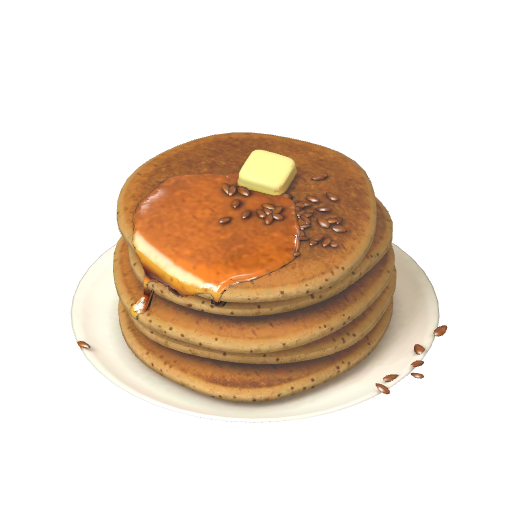
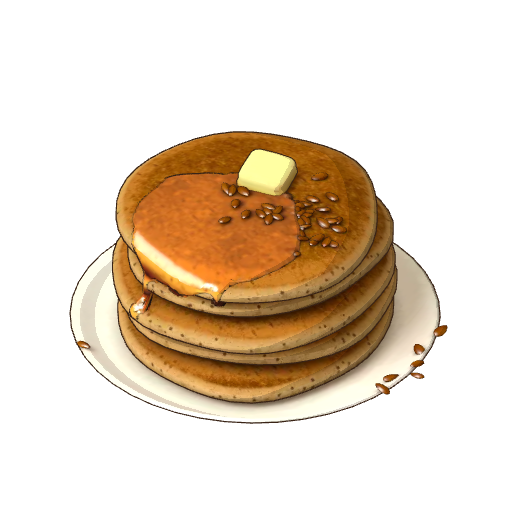
feat(render): 팬케이크 계열 툰 스타일 — 가는 외곽선 · 3단 그늘
- src/render/toonMaterial.ts: isToonBread · applyToon (GLB 색 맵 그대로 + MeshToonMaterial 3단 + 뷰 공간 외곽선 1.2px@512)
- 쇼케이스: 툰 빵이면 툰 재질 + TOON_SHOWCASE_LIGHT(직광 옆 뒤 · 반구 끔), 컨텍스트 복구에도 유지
- 썸네일 하네스 기본이 같은 판정 · 팬케이크 15장 다시 구움
- glb-shot: --glb · --query 검수 인자

Claude-Session: https://claude.ai/code/session_01Qp9Kq6TzVtKidUT7b2Ho5t

diff --git a/src/render/toonMaterial.ts b/src/render/toonMaterial.ts
@@ -1,0 +1,124 @@
+// 툰 스타일 빵 — 쇼케이스(breadShowcase.ts)와 썸네일 하네스(scripts/thumbsHarness.ts)가 공유.
+// 2026-11-17 스타일 시험에서 채택: 색 맵은 GLB 그대로 · 본체 = MeshToonMaterial 3단 · 가는 외곽선(썸네일 512px에서 1.2px).
+// 외곽선 = 정점을 붙인 사본을 뒤집어(BackSide) 뷰 공간에서 법선 쪽으로 민다. 두 카메라가 다 직교라 뷰 공간 두께 = 화면 두께.
+import * as THREE from 'three';
+import { mergeVertices } from 'three/examples/jsm/utils/BufferGeometryUtils.js';
+
+/** 툰으로 그리는 빵 — 팬케이크 계열(베이스 + 변형)만 */
+export function isToonBread(idOrUrl: string): boolean {
+  return /(^|\/)pancake(--[a-z0-9-]+)?(\.[0-9a-f]+)?(\.glb)?(\?|$)/.test(idOrUrl);
+}
+
+/** 세 단 그늘(어두운 단 → 밝은 단) */
+const RAMP = [0.35, 0.65, 1];
+/** 외곽선 두께(씬 단위, 빵 최장 변 1.6 기준) — 썸네일(직교 높이 2.2 · 512px)에서 1.2px */
+export const TOON_LINE = (1.2 * 2.2) / 512;
+const LINE_COLOR = 0x3a2416;
+/** 잔 덩이 외곽선 가늘게: 덩이 대각선 ÷ 전체 최장 변이 문턱 아래면 비례로 줄임(바닥 배율까지) */
+const SMALL: [number, number] = [0.3, 0.2];
+
+let gradientMap: THREE.DataTexture | null = null;
+function ramp(): THREE.DataTexture {
+  if (gradientMap) return gradientMap;
+  const t = new THREE.DataTexture(new Uint8Array(RAMP.map((v) => Math.round(v * 255))), RAMP.length, 1, THREE.RedFormat);
+  t.minFilter = t.magFilter = THREE.NearestFilter;
+  t.generateMipmaps = false;
+  t.needsUpdate = true;
+  return (gradientMap = t); // 모든 빵이 같이 쓴다 — 버리지 않는다
+}
+
+/** 위치만 복사 → 같은 자리 정점 병합 → 법선 재계산 (날 선 모서리에서 껍데기가 갈라지지 않게) */
+function hullGeometry(src: THREE.BufferGeometry, toRoot: THREE.Matrix4, longest: number): THREE.BufferGeometry {
+  const g = new THREE.BufferGeometry();
+  const p = src.getAttribute('position'); // 인터리브·양자화일 수 있다 — Float32로 풀어 복사
+  const pos = new Float32Array(p.count * 3);
+  const v = new THREE.Vector3();
+  for (let i = 0; i < p.count; i++) v.fromBufferAttribute(p, i).toArray(pos, i * 3);
+  g.setAttribute('position', new THREE.BufferAttribute(pos, 3));
+  if (src.index) g.setIndex(src.index);
+  const merged = mergeVertices(g);
+  g.dispose();
+  merged.computeVertexNormals();
+  merged.setAttribute('aLine', new THREE.BufferAttribute(lineScale(merged, toRoot, longest), 1));
+  return merged;
+}
+
+/** 연결 덩이(union-find)마다 두께 배율 — 잔 토핑이 외곽선에 파묻혀 검은 덩이로 뭉치는 걸 막는다 */
+function lineScale(g: THREE.BufferGeometry, toRoot: THREE.Matrix4, longest: number): Float32Array {
+  const [thr, floor] = SMALL;
+  const pos = g.getAttribute('position');
+  const n = pos.count;
+  const idx = g.index!.array;
+  const parent = new Int32Array(n).map((_, i) => i);
+  const find = (a: number): number => {
+    while (parent[a] !== a) a = parent[a] = parent[parent[a]];
+    return a;
+  };
+  for (let i = 0; i < idx.length; i += 3) {
+    parent[find(idx[i])] = find(idx[i + 1]);
+    parent[find(idx[i + 1])] = find(idx[i + 2]);
+  }
+  const boxes = new Map<number, THREE.Box3>();
+  const v = new THREE.Vector3();
+  for (let i = 0; i < n; i++) {
+    const r = find(i);
+    let b = boxes.get(r);
+    if (!b) boxes.set(r, (b = new THREE.Box3()));
+    b.expandByPoint(v.fromBufferAttribute(pos, i).applyMatrix4(toRoot));
+  }
+  const scale = new Map<number, number>();
+  const sz = new THREE.Vector3();
+  for (const [r, b] of boxes) scale.set(r, THREE.MathUtils.clamp(b.getSize(sz).length() / longest / thr, floor, 1));
+  const out = new Float32Array(n);
+  for (let i = 0; i < n; i++) out[i] = scale.get(find(i))!;
+  return out;
+}
+
+/**
+ * 로드 직후 1회, 정규화(scale) 전에 — 재질을 툰으로 바꾸고 메시마다 외곽선 자식을 붙인다.
+ * lineWorld는 정규화 뒤 씬 단위 두께. 정규화 배율(root.scale)은 셰이더가 뷰 공간에서 밀어 상관없다.
+ */
+export function applyToon(root: THREE.Object3D, lineWorld = TOON_LINE): void {
+  root.updateMatrixWorld(true);
+  const rootInv = root.matrixWorld.clone().invert();
+  const longest = Math.max(...new THREE.Box3().setFromObject(root).getSize(new THREE.Vector3()).toArray(), 1e-6);
+  const uniforms = { uLine: { value: lineWorld } };
+  // traverse 안에서 자식을 붙이면 그 자식도 순회에 걸린다 — 먼저 모은다
+  const meshes: THREE.Mesh[] = [];
+  root.traverse((o) => {
+    if (o instanceof THREE.Mesh) meshes.push(o);
+  });
+  for (const mesh of meshes) {
+    const orig = (Array.isArray(mesh.material) ? mesh.material[0] : mesh.material) as THREE.MeshStandardMaterial;
+    mesh.material = new THREE.MeshToonMaterial({
+      map: orig.map ?? null,
+      color: orig.color ?? new THREE.Color(0xffffff),
+      gradientMap: ramp(),
+      side: orig.side,
+      vertexColors: orig.vertexColors,
+    });
+    orig.normalMap?.dispose();
+    orig.roughnessMap?.dispose();
+    orig.dispose(); // map은 툰 재질이 이어 쓴다
+
+    const mat = new THREE.MeshBasicMaterial({ color: LINE_COLOR, side: THREE.BackSide });
+    mat.onBeforeCompile = (shader) => {
+      Object.assign(shader.uniforms, uniforms);
+      shader.vertexShader = shader.vertexShader
+        .replace('#include <common>', '#include <common>\nuniform float uLine;\nattribute float aLine;')
+        .replace(
+          '#include <project_vertex>',
+          `#include <project_vertex>
+          vec3 nView = normalize( normalMatrix * normal );
+          if ( dot( nView.xy, nView.xy ) > 1e-12 ) {
+            mvPosition.xy += normalize( nView.xy ) * uLine * aLine;
+            gl_Position = projectionMatrix * mvPosition;
+          }`,
+        );
+    };
+    mat.customProgramCacheKey = () => 'bread-toon-outline';
+    const hull = new THREE.Mesh(hullGeometry(mesh.geometry, rootInv.clone().multiply(mesh.matrixWorld), longest), mat);
+    hull.name = 'toon-outline';
+    mesh.add(hull); // 본체의 자식 — 같은 변환
+  }
+}

diff --git a/src/render/SceneHost.ts b/src/render/SceneHost.ts
@@ -25,7 +25,8 @@ export function fitPixelRatio(dpr: number, w: number, h: number): number {
 }
 
 type LightRig = {
-  key: { color: number; intensity: number };
+  /** pos 생략 = KEY_POS(홈 · 기본 쇼케이스) */
+  key: { color: number; intensity: number; pos?: [number, number, number] };
   ambient: { color: number; intensity: number };
   fill: { color: number; intensity: number };
   /** 측면 노출 2차 캘리브레이션(2026-08-30) 전용 — HOME_LIGHT는 생략(=끔), SHOWCASE_LIGHT만 갖는다. */
@@ -49,6 +50,14 @@ const SHOWCASE_LIGHT: LightRig = {
   fill: { color: 0xffffff, intensity: 0.3 },
   hemi: { sky: 0x000000, ground: 0xffffff, intensity: 1.7 },
 };
+// 툰 빵(toonMaterial.ts) 쇼케이스 — 기본 쇼케이스 조명은 앰비언트 · 반구가 커서 세 단 그늘이 안 보인다.
+// 직광을 옆 뒤로 돌려 벽면이 단을 가르게 한다. thumbsHarness.ts 툰 분기와 같은 값(2026-11-17 스타일 시험).
+const TOON_SHOWCASE_LIGHT: LightRig = {
+  key: { color: 0xffffff, intensity: 2.8, pos: [-4, 2.5, -1] },
+  ambient: { color: 0xffffff, intensity: 0.3 },
+  fill: { color: 0xffffff, intensity: 0.3 },
+};
+const KEY_POS: [number, number, number] = [-2, 6, 2];
 
 export class SceneHost {
   private renderer: THREE.WebGLRenderer | null = null;
@@ -61,6 +70,7 @@ export class SceneHost {
   /** 마지막으로 받은 개체 시드·쇼케이스 url — 컨텍스트 복구 뒤 재적용 (T4-3) */
   private seed: number | null = null;
   private showcaseUrl: string | null = null;
+  private showcaseToon = false;
   /** 셰이더 시계 원점 — start()마다 새로 잡는다. uTime을 작게 유지해 float32 해상도를 지킨다 (T4-9) */
   private shaderT0 = 0;
   private resizeObserver: ResizeObserver | null = null;
@@ -130,7 +140,7 @@ export class SceneHost {
 
     // 조명: 홈 씬 값(HOME_LIGHT)으로 초기화 — 쇼케이스 진입 시에만 스왑(VISUAL §1-3)
     const key = new THREE.DirectionalLight(HOME_LIGHT.key.color, HOME_LIGHT.key.intensity);
-    key.position.set(-2, 6, 2);
+    key.position.set(...KEY_POS);
     this.scene.add(key);
     const ambient = new THREE.AmbientLight(HOME_LIGHT.ambient.color, HOME_LIGHT.ambient.intensity);
     this.scene.add(ambient);
@@ -200,6 +210,7 @@ export class SceneHost {
 
   private onContextRestored = (): void => {
     const showcaseUrl = this.showcaseUrl; // dispose가 비우기 전에 챙긴다
+    const toon = this.showcaseToon;
     this.dispose();
     this.mount();
     // 새 반죽은 기본값(시드 0.37·기본 파라미터)으로 태어난다 — 유실 전 상태를 다시 입힌다
@@ -207,7 +218,7 @@ export class SceneHost {
     if (this.current) this.dough?.applyParams(this.current);
     if (this.wantRunning) this.start(); // 레시피 탭처럼 멈춰 있던 씬은 멈춘 채로
     // 쇼케이스 중이었으면 빵을 다시 올린다 — enterShowcase가 showcaseSeq를 올려 늦은 이전 로드는 버려진다
-    if (showcaseUrl) this.enterShowcase(showcaseUrl).catch(() => {});
+    if (showcaseUrl) this.enterShowcase(showcaseUrl, toon).catch(() => {});
   };
 
   /** 라이브 목표 파라미터 — 프레임마다 지수 lerp로 따라간다 (τ≈1.2s) */
@@ -324,6 +335,7 @@ export class SceneHost {
   private applyLightRig(rig: LightRig): void {
     this.keyLight?.color.setHex(rig.key.color);
     if (this.keyLight) this.keyLight.intensity = rig.key.intensity;
+    this.keyLight?.position.set(...(rig.key.pos ?? KEY_POS));
     this.ambientLight?.color.setHex(rig.ambient.color);
     if (this.ambientLight) this.ambientLight.intensity = rig.ambient.intensity;
     this.fillLight?.color.setHex(rig.fill.color);
@@ -336,18 +348,19 @@ export class SceneHost {
   }
 
   /** 쇼케이스 진입 — 홈 씬 숨기고 GLB 턴테이블. 로드 실패는 reject (호출자 폴백) */
-  async enterShowcase(url: string): Promise<void> {
+  async enterShowcase(url: string, toon = false): Promise<void> {
     if (!this.showcase) throw new Error('scene not mounted');
     const seq = ++this.showcaseSeq;
-    await this.showcase.load(url);
+    await this.showcase.load(url, toon);
     // 늦게 도착해 버려진 로드면 진행하지 않는다 — show·리스너 부착이 두 번 되던 경로 (T7-02)
     if (seq !== this.showcaseSeq) throw new Error('showcase load superseded');
     this.showcaseUrl = url;
+    this.showcaseToon = toon;
     this.showcaseDrag?.detach();
     for (const o of this.homeGroup) o.visible = false;
     this.showcase.show();
     // 빵 GLB는 정본 hex 파리티 조명(SHOWCASE_LIGHT)으로 — 홈 씬 진입 전까지만 유효(exitShowcase가 원복)
-    this.applyLightRig(SHOWCASE_LIGHT);
+    this.applyLightRig(toon ? TOON_SHOWCASE_LIGHT : SHOWCASE_LIGHT);
     // 드래그 회전 — 쇼케이스 전용 임시 리스너 (반죽 입력과 분리)
     let lastX: number | null = null;
     const onDown = (e: PointerEvent): void => {

diff --git a/scripts/thumbsHarness.ts b/scripts/thumbsHarness.ts
@@ -2,12 +2,15 @@
 // 완료 시 window.__done = true (puppeteer가 대기 후 캔버스 캡처).
 // 앱 아이콘용은 ?icon=1 — 병+도우 히어로 구도 대신 GLB 단독 구도만 v1 지원.
 // 검수용(기본값이면 썸네일과 같은 그림): ?az=<도> 빵을 세로축으로 돌림(턴테이블 게이트) · ?size=<px> 캔버스.
+// 툰 빵(팬케이크 계열, src/render/toonMaterial.ts)은 기본이 툰. 검수용: ?glb=<루트 기준 URL 경로> GLB 위치 대체
+//   · ?style=toon|pbr 강제 · ?line=1.2 외곽선 px(512 캔버스 기준)
 // 재질 정책은 앱 쇼케이스와 같은 src/render/breadMaterial.ts(PBR 자산 = Standard + 환경맵).
 import * as THREE from 'three';
 import { GLTFLoader } from 'three/examples/jsm/loaders/GLTFLoader.js';
 import { MeshoptDecoder } from 'three/examples/jsm/libs/meshopt_decoder.module.js';
 import { FAMILIES } from './lib/families.mjs';
 import { applyBreadMaterials, createRoomEnvironment } from '../src/render/breadMaterial';
+import { applyToon, isToonBread, TOON_LINE } from '../src/render/toonMaterial';
 
 declare global {
   interface Window {
@@ -36,22 +39,35 @@ camera.lookAt(0, 0, 0);
 const key = new THREE.DirectionalLight(0xffffff, 2.4);
 key.position.set(-2, 6, 2);
 scene.add(key);
-scene.add(new THREE.AmbientLight(0xffffff, 0.7656));
+const ambient = new THREE.AmbientLight(0xffffff, 0.7656);
+scene.add(ambient);
 const fill = new THREE.DirectionalLight(0xffffff, 0.3);
 fill.position.set(2.5, 3, -2);
 scene.add(fill);
 // 측면 노출 2차 캘리브레이션(2026-08-30) — breadlab.ts와 동일 값·근거(sky=검정이라 윗면 기여 0,
 // 수직 벽만 순증). docs/VISUAL.md §1-3 참조.
-scene.add(new THREE.HemisphereLight(0x000000, 0xffffff, 1.7));
+const hemi = new THREE.HemisphereLight(0x000000, 0xffffff, 1.7);
+scene.add(hemi);
 
 const loader = new GLTFLoader();
 loader.setMeshoptDecoder(MeshoptDecoder);
 loader
-  .loadAsync(`/${family.outDir}/${id}.glb`)
+  .loadAsync(params.get('glb') ? `/${params.get('glb')!.replace(/^\/+/, '')}` : `/${family.outDir}/${id}.glb`)
   .then((gltf) => {
     const root = gltf.scene;
-    let env: THREE.Texture | null = null;
-    applyBreadMaterials(root, () => (env ??= createRoomEnvironment(renderer)));
+    const style = params.get('style');
+    if (style === 'toon' || (style !== 'pbr' && family === FAMILIES.bread && isToonBread(id))) {
+      // 툰 조명 — SceneHost TOON_SHOWCASE_LIGHT와 같은 값
+      key.position.set(-4, 2.5, -1);
+      key.intensity = 2.8;
+      ambient.intensity = 0.3;
+      hemi.intensity = 0;
+      // ?line = 512px 캔버스 기준 px (직교 높이 2.2)
+      applyToon(root, params.get('line') ? (Number(params.get('line')) * 2.2) / 512 : TOON_LINE);
+    } else {
+      let env: THREE.Texture | null = null;
+      applyBreadMaterials(root, () => (env ??= createRoomEnvironment(renderer)));
+    }
     const box = new THREE.Box3().setFromObject(root);
     const size = box.getSize(new THREE.Vector3());
     const center = box.getCenter(new THREE.Vector3());

diff --git a/src/render/breadShowcase.ts b/src/render/breadShowcase.ts
@@ -5,6 +5,7 @@ import * as THREE from 'three';
 import { GLTFLoader } from 'three/examples/jsm/loaders/GLTFLoader.js';
 import { MeshoptDecoder } from 'three/examples/jsm/libs/meshopt_decoder.module.js';
 import { applyBreadMaterials, disposeBreadMaterial } from './breadMaterial';
+import { applyToon } from './toonMaterial';
 
 const TURNTABLE_S = 12; // 12s/rev
 const FIT_SIZE = 1.6;   // 씬 단위 목표 크기 (병 폭과 비슷하게)
@@ -19,7 +20,7 @@ export class BreadShowcase {
   /** 턴테이블 회전 — 기울어진 group 안에서 빵 자신의 세로축으로 돈다 */
   private spin = new THREE.Group();
   private loader = new GLTFLoader();
-  private current: { url: string; root: THREE.Group } | null = null;
+  private current: { url: string; toon: boolean; root: THREE.Group } | null = null;
   private dragVel = 0;
   private dragging = false;
   private loadSeq = 0;
@@ -34,14 +35,15 @@ export class BreadShowcase {
   }
 
   /** 로드 + 정규화(중심·크기) — 실패 시 reject (호출자가 폴백) */
-  async load(url: string): Promise<void> {
+  async load(url: string, toon = false): Promise<void> {
     const seq = ++this.loadSeq;
-    if (this.current?.url === url) return; // 캐시 히트 — 즉시
+    if (this.current?.url === url && this.current.toon === toon) return; // 캐시 히트 — 즉시
     const gltf = await this.loader.loadAsync(url);
     if (seq !== this.loadSeq) return; // 늦게 도착한 로드 — 폐기
     const root = gltf.scene;
 
-    applyBreadMaterials(root, this.getEnv);
+    if (toon) applyToon(root); // 툰 빵(팬케이크 계열) — toonMaterial.ts
+    else applyBreadMaterials(root, this.getEnv);
 
     // 정규화: 바운딩 박스 중심을 원점으로, 최장축을 FIT_SIZE로
     const box = new THREE.Box3().setFromObject(root);
@@ -52,7 +54,7 @@ export class BreadShowcase {
     root.position.copy(center).multiplyScalar(-s);
 
     this.disposeCurrent();
-    this.current = { url, root };
+    this.current = { url, toon, root };
     this.spin.add(root);
   }
 

diff --git a/src/app.ts b/src/app.ts
@@ -41,6 +41,7 @@ import { adPrivacyOptionsRequired, adsAvailable, showAdPrivacyOptions, showRewar
 import { basesCompleted, missionViews } from './store/economy';
 import type { BakeGrade, NotifySlot, SimEvent } from './sim';
 import { ruleByVariantId } from './sim';
+import { isToonBread } from './render/toonMaterial';
 
 /** 굽기 결과 소리가 올라가는 음 수 — 등급이 높을수록 끝까지 (sounds.sfxBaked) */
 const BAKE_NOTES: Record<BakeGrade, 2 | 3 | 4> = { best: 4, good: 3, flat: 2 };
@@ -354,12 +355,12 @@ export async function startApp(deps: StartAppDeps = {}): Promise<{ store: GameSt
       try {
         // 원격 변형은 최대 4초 기다린다. 넘기면 베이스로 물러나고 받기는 뒤에서 이어 가 캐시에 든다(다음엔 변형)
         const url = kind === 'bread' ? await within(glbUrl(id), SHOWCASE_WAIT_MS) : `/${dir}/${id}.glb`;
-        await scene.enterShowcase(url);
+        await scene.enterShowcase(url, kind === 'bread' && isToonBread(id));
       } catch {
         // 변형 GLB는 대부분 없다 — 베이스 GLB로 한 번 더 (썸네일의 베이스 PNG 폴백과 같은 규칙, T4-2)
         const base = id.split('--')[0];
         if (base === id) return false;
-        await scene.enterShowcase(`/${dir}/${base}.glb`);
+        await scene.enterShowcase(`/${dir}/${base}.glb`, kind === 'bread' && isToonBread(base));
       }
     } catch {
       return false;

diff --git a/docs/VISUAL.md b/docs/VISUAL.md
@@ -547,6 +547,7 @@ down ─ 이동<8px & <250ms 내 up → poke
 | 기포 | 셰이더 절차(§2) — 비용 고정, 폭주 불가 |
 | 반죽 프래그 fbm 호출 | **상시 ≤2회**(`fbmG` 마이크로 노멀 + 모틀링) + 조건부 게이트 7곳(uPoreDensity·uWallCell·vStretch·uRipe·uCrust·uKahm·uMold). **동시 개방 상한 8** — `wallCells`·`poreDensity`에 `(1−dormancy)·(kahm?0:1)·(1−mold)`을 곱해 **살아있는 분기와 죽은 분기를 상호배타**로 만들었다: 살아있는 최악(피크+grab) 7.3 / 죽은 최악(휴면+곰팡이+kahm+grab) 8.0 / 상태 크로스페이드 과도기 ≈9.3(≤2초). 개편 전 병리적 상한이 11이었으므로 **예산은 오히려 내려갔다**. 유리벽 기공은 fbm이 아니라 2옥타브 sin/cos 값+기울기 동시 산출(`cellField`, 8 trig ≈ fbm 1.33회)이고, 피크 크래그는 기존 `fbmG(vXZ*5.0)` 호출에 진폭만 얹어 **추가 호출 0**이다 (개정 2026-08-25: 축 분해·유리벽 기공) |
 | 셰이더 | 살아있는 도우·유리·파티클은 텍스처 fetch 0 유지, `mediump`, 루프 컴파일 타임 고정 상한(배열 8), 동적 분기 최소. **구운 빵 GLB는 예외**: 옛 절차 GLB = basecolor 1장 ≤512² png. **Blender PBR 빵(2026-11-14~)** = 재질 1장에 색 1024² · 노멀 1024² · 거칠기 512² WebP + 방 환경맵 PMREM 1장(렌더러당 1회 생성, 반사만). 메시 1·재질 1이라 쇼케이스 draw call은 그대로. 탄젠트 속성은 싣지 않는다(화면 미분 TBN) |
+| 툰 빵 (2026-11-17) | 팬케이크 계열 15종만 `src/render/toonMaterial.ts`(판정 `isToonBread`). GLB는 그대로 쓰고 색 맵만 MeshToonMaterial 3단 그늘로 그린다(노멀 · 거칠기 맵 · 환경맵 안 씀). 외곽선 = 정점 붙인 사본 BackSide 1장, 뷰 공간 두께 `TOON_LINE`(썸네일 512px에서 1.2px). 메시당 draw call +1(빵 1 → 2, 상한 ≤4 안). 조명은 `TOON_SHOWCASE_LIGHT`(직광 옆 뒤 · 반구 끔), 썸네일 하네스도 같은 값 |
 | GLB 예산 (빵) | **2026-11-14 개정(Blender PBR)**: 개당 ≤500KB · ≤20k tri · 합 ≤8192KB(2026-11-15 낮 개정, `scripts/check-budget.mjs` 검사, 정본 `scripts/lib/families.mjs`). 크기는 텍스처가 정한다. 14종 실측 123~468KB · 합 3401KB. 쇼케이스는 1개만 올리고 이전 것을 dispose해서 런타임 비용은 개수와 무관하다. 합계는 OTA 묶음 몫(zip 5.5MB → 8.79MB, 1.6.6). 옛 절차 판은 개당 ≤250KB · 8k tri · 합 2.5MB였다 |
 | GLB 예산 (재료) | 개당 **≤250KB·8000 tri**, 합계는 **개수 비례 160KB/개**(2026-11-12 정정, 정본 `scripts/lib/families.mjs`)(12 → 30종으로 자라는 집합이라 고정 상수를 안 쓴다 — 고정이면 늘 때마다 손으로 올리게 되고 그건 예산을 결과에 맞추는 것이다). 텍스처는 기본 0장, 탈출구도 ≤256². **쇼케이스 draw call ≤4는 빵과 공유이지 2배가 아니다.** 예산 정본 = `scripts/lib/families.mjs`, 절차 = `docs/INGREDIENTS.md` |
 | 배터리 | hidden/타 화면 → rAF 완전 정지 + AudioContext suspend. 복귀 시 쇼케이스든 홈이든 rAF를 다시 켠다. uTime은 `start()`마다 원점을 다시 잡는다(`shaderT0`, float32 정밀도, 2026-11-12) |
